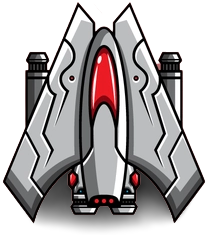
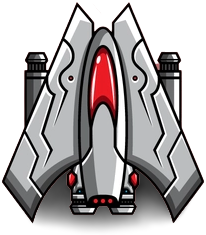
editing ships

diff --git a/src/AstroOdyssey/AstroOdyssey.Shared/Internals/Player.cs b/src/AstroOdyssey/AstroOdyssey.Shared/Internals/Player.cs
@@ -20,10 +20,10 @@ namespace AstroOdyssey
             Stretch = Stretch.Uniform,
         };
 
-        //private readonly Image contentShipBlaze = new Image()
-        //{
-        //    Stretch = Stretch.Uniform
-        //};
+        private readonly Image contentShipBlaze = new Image()
+        {
+            Stretch = Stretch.Uniform
+        };
 
         private readonly Border powerGauge = new Border()
         {
@@ -66,7 +66,7 @@ namespace AstroOdyssey
 
             // combine power gauge, ship, and blaze
             body = new Grid();
-            //content.Children.Add(contentShipBlaze);
+            body.Children.Add(contentShipBlaze);
             body.Children.Add(ship);
             body.Children.Add(powerGauge);
             //content.Children.Add(contentShipHealthBar);           
@@ -102,12 +102,12 @@ namespace AstroOdyssey
             this.ship.Source = new BitmapImage(new Uri(ship.ImageUrl, UriKind.RelativeOrAbsolute));
             ShipClass = ship.ShipClass;
 
-            //var exhaustUri = new Uri("ms-appx:///Assets/Images/effect_purple.png", UriKind.RelativeOrAbsolute);
+            var exhaustUri = new Uri("ms-appx:///Assets/Images/space_thrust.png", UriKind.RelativeOrAbsolute);
 
-            //contentShipBlaze.Source = new BitmapImage(exhaustUri);
-            //contentShipBlaze.Width = contentShip.Width;
+            contentShipBlaze.Source = new BitmapImage(exhaustUri);
+            contentShipBlaze.Width = body.Width;
+            contentShipBlaze.Height = body.Height;
 
-            //contentShipBlaze.Height = ExhaustHeight * scale;
             //contentShipBlaze.Margin = new Microsoft.UI.Xaml.Thickness(0, 50 * scale, 0, 0);
 
             //contentShipPowerGauge.Margin = new Microsoft.UI.Xaml.Thickness(0, 5 * scale, 0, 0);
